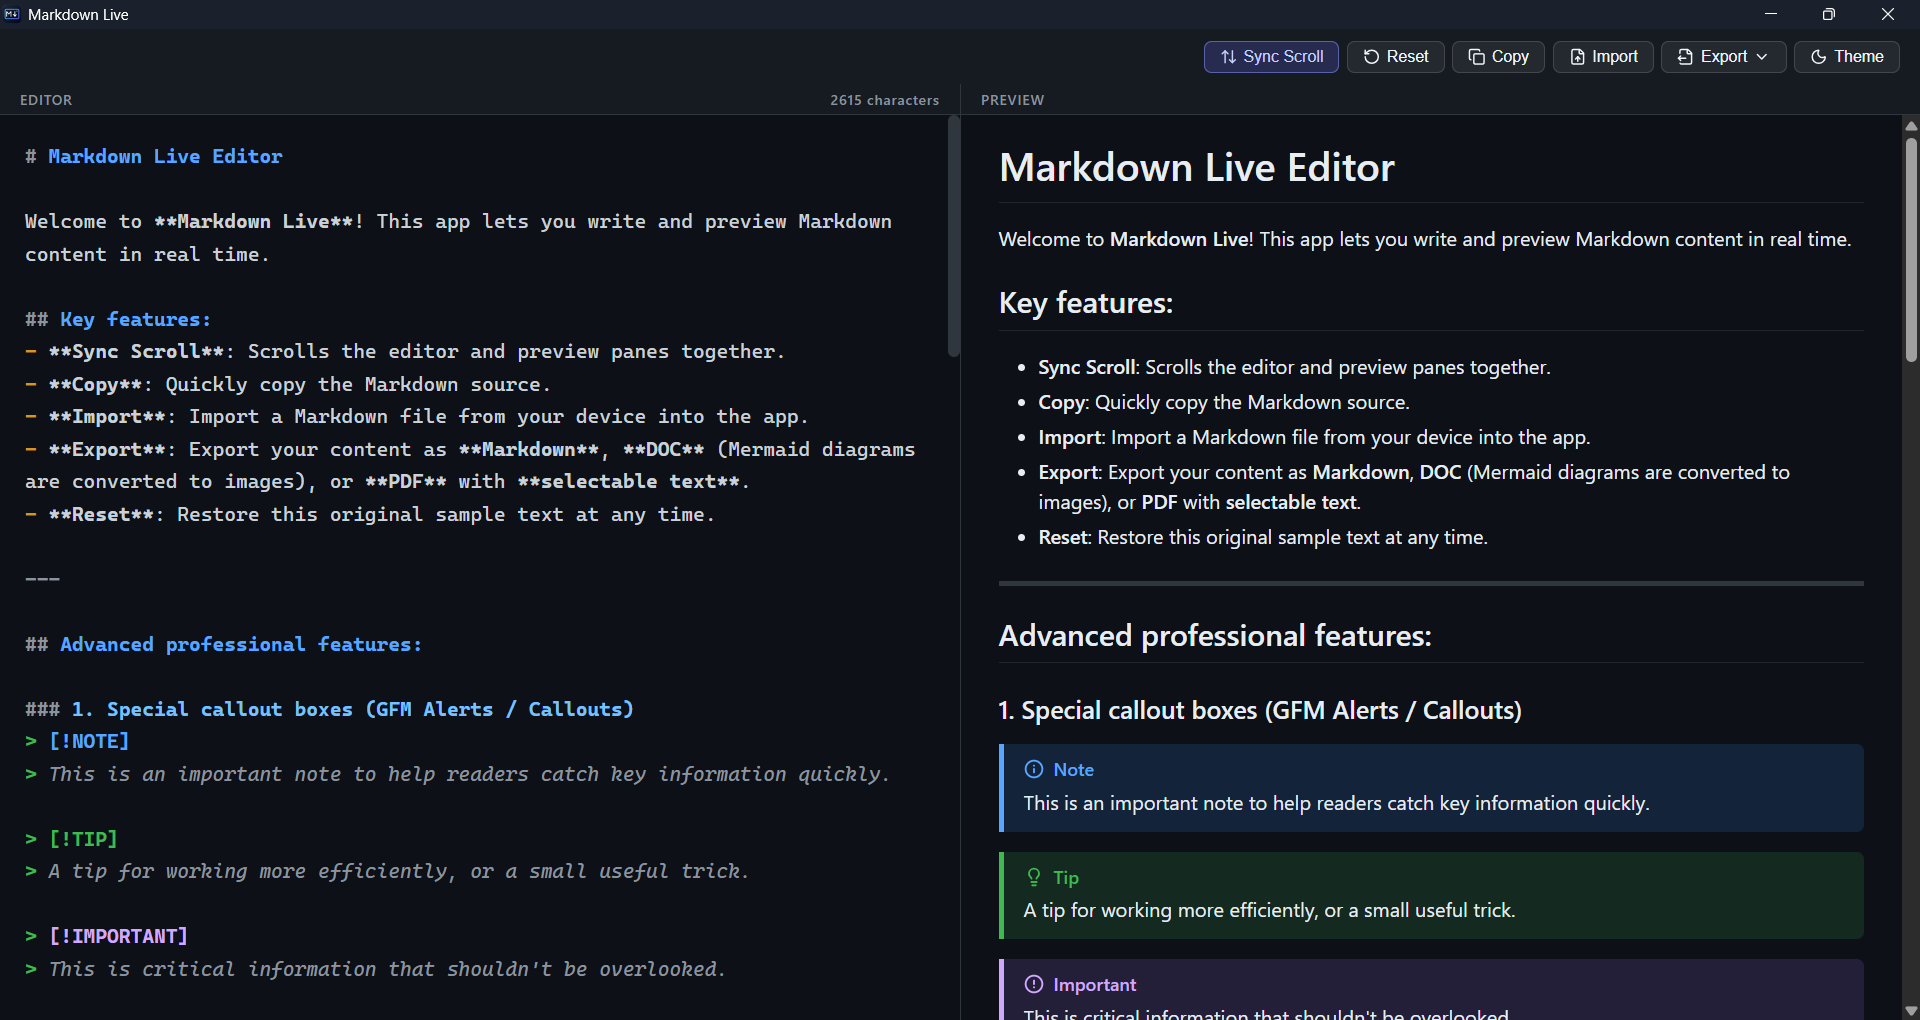
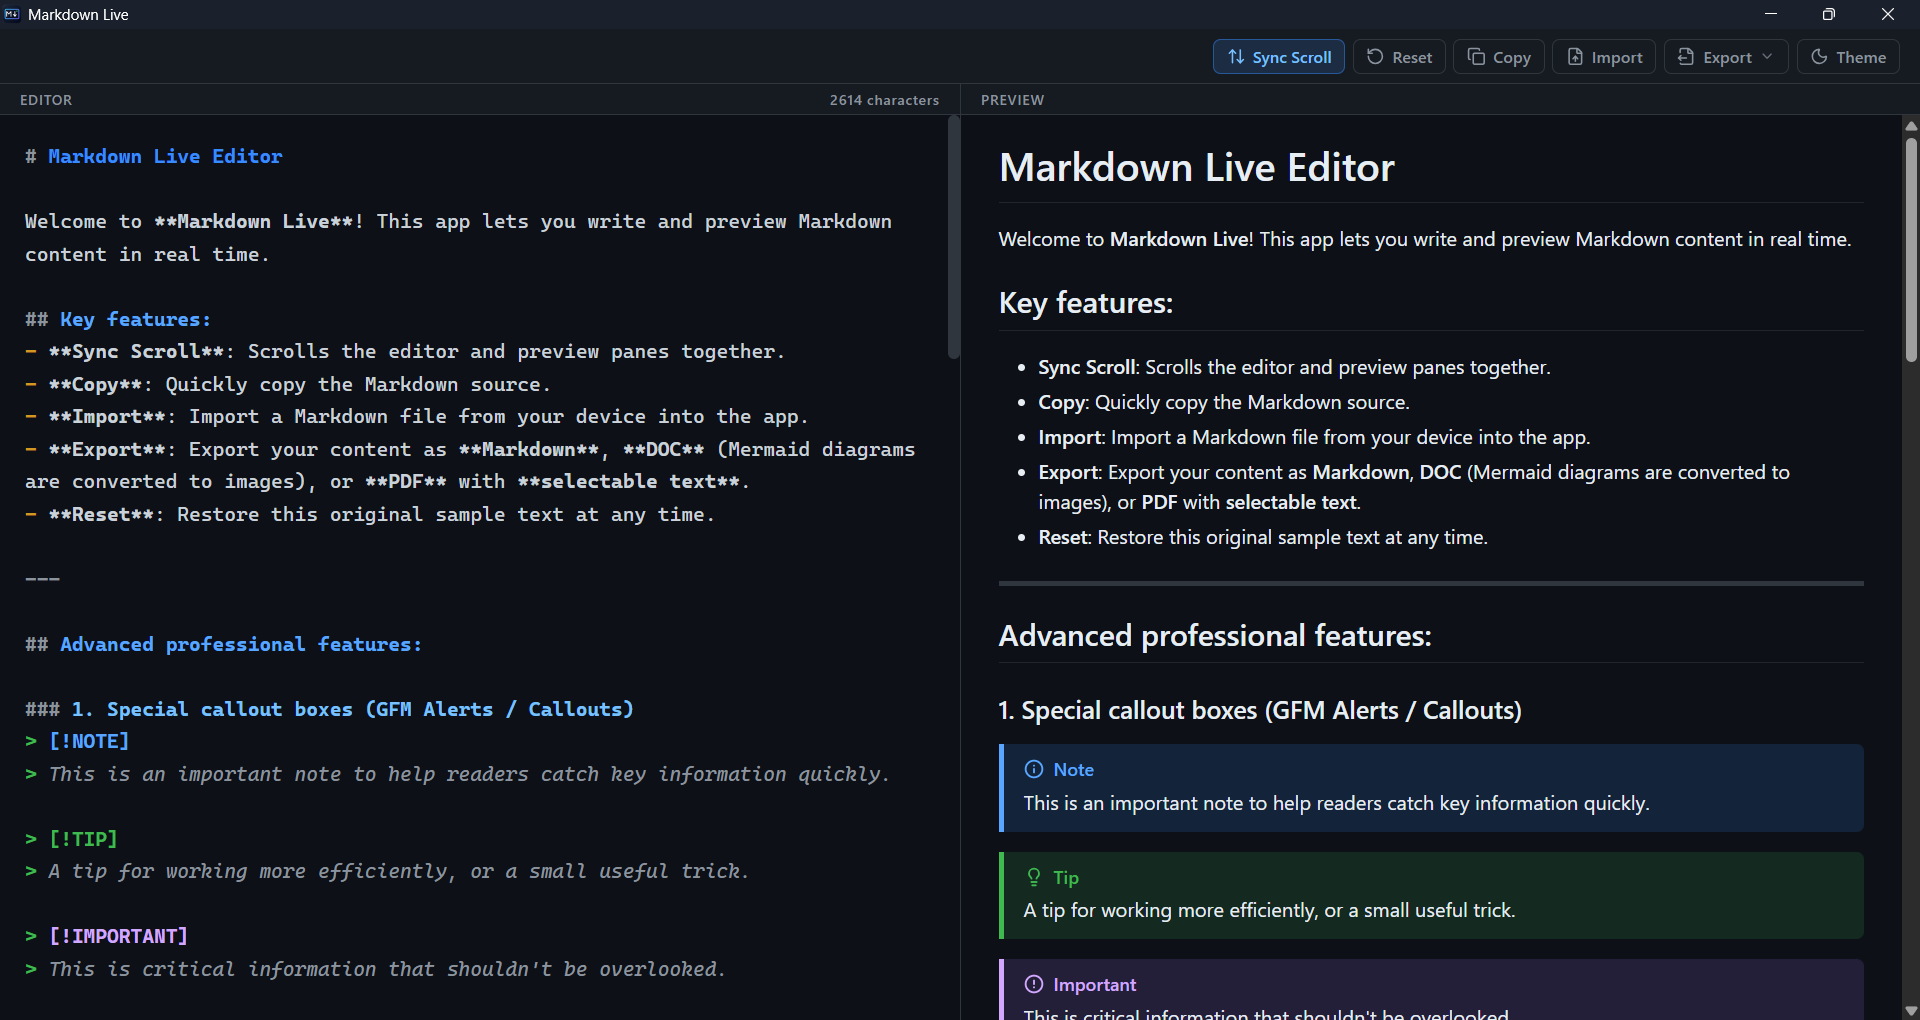
enhance theme synchronization

Changed region(s): [[0.625, 0.0304, 1.0, 0.0912], [0.0312, 0.152, 0.125, 0.1824]]

diff --git a/src/script.js b/src/script.js
@@ -198,8 +198,15 @@ function getCurrentTheme() {
 
 // Áp dụng theme: cập nhật thuộc tính data-theme, hoán đổi CSS bên ngoài (markdown/hljs)
 // và đồng bộ theme của Mermaid. persist=true khi người dùng chủ động bấm nút chuyển đổi.
+function syncWindowTheme(theme) {
+    try {
+        if (window.__TAURI__ && window.__TAURI__.window) window.__TAURI__.window.getCurrentWindow().setTheme(theme).catch(() => {});
+    } catch (e) {}
+}
+
 function applyTheme(theme, persist) {
     document.documentElement.setAttribute('data-theme', theme);
+    syncWindowTheme(theme);
 
     if (markdownThemeLink) {
         markdownThemeLink.href = theme === 'dark'
@@ -223,6 +230,9 @@ function applyTheme(theme, persist) {
         }
     }
 }
+
+// Đẩy theme khởi động (đã chọn ở <head>) xuống khung cửa sổ Tauri; bỏ qua khi mở bằng trình duyệt thường.
+syncWindowTheme(getCurrentTheme());
 
 // Nút Bật/Tắt giao diện Sáng / Tối
 if (btnTheme) {
